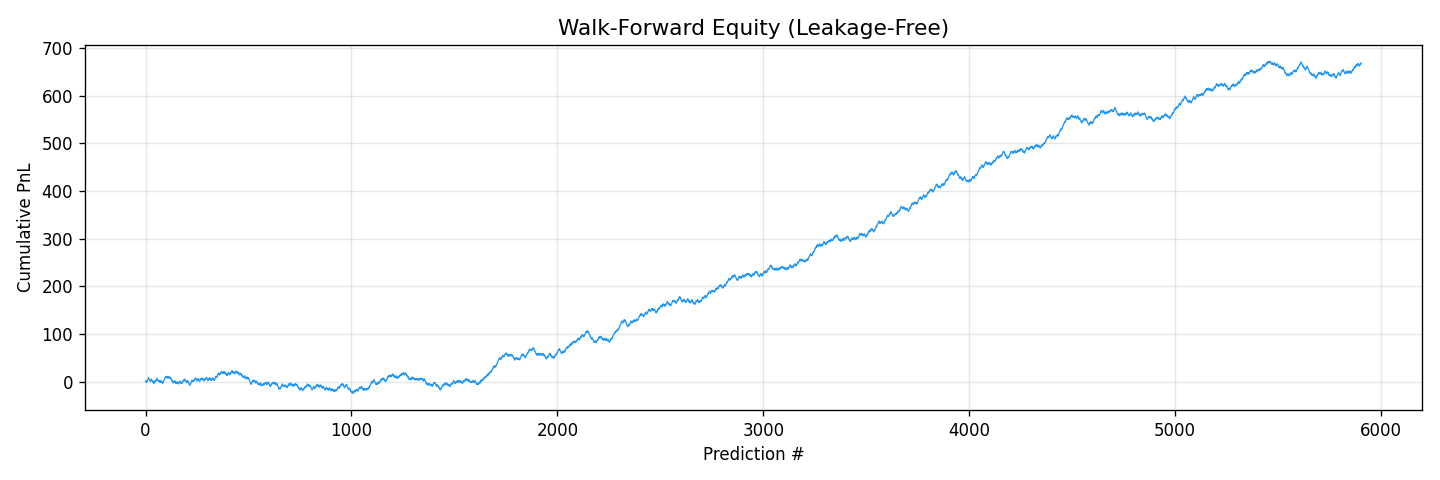
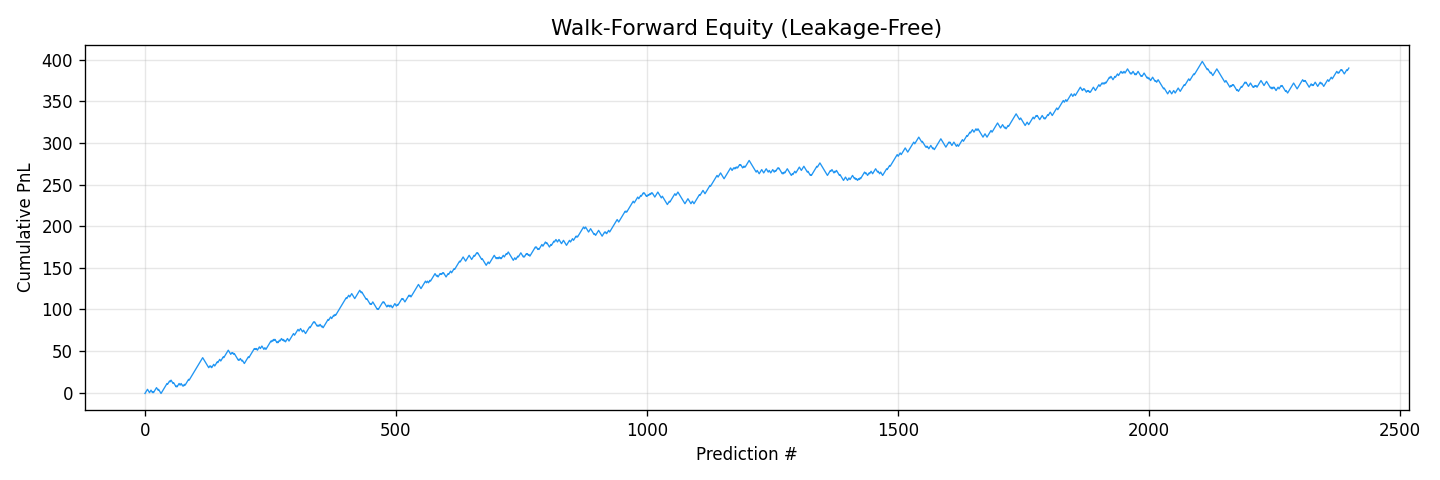
feat: Accuracy Audit Phase 4 Ultimate Gemini Verification Layer

diff --git a/gemini_filter.py b/gemini_filter.py
@@ -1,0 +1,100 @@
+"""
+Layer 13: Gemini AI Master Trader Verification Layer.
+
+This module packages the raw technical context of a trade signal
+(Asset, Direction, EMA stack, ATR, Key Levels, ADX) and sends it
+to Google's Gemini LLM. The LLM acts as a Master Trader and provides
+a final APPROVED or REJECTED verdict based on the technical structure,
+preventing the bot from taking trades that look mathematically fine
+but structurally poor.
+"""
+
+import os
+import logging
+import json
+import google.generativeai as genai
+from config import GEMINI_API_KEY
+
+log = logging.getLogger("gemini_filter")
+
+# Initialize Gemini if an API key is provided
+_gemini_enabled = False
+if GEMINI_API_KEY:
+    try:
+        genai.configure(api_key=GEMINI_API_KEY)
+        # Using gemini-2.5-flash which is fast and structurally sound.
+        _model = genai.GenerativeModel('gemini-2.5-flash')
+        _gemini_enabled = True
+        log.info("Gemini API Verification Layer is ENABLED.")
+    except Exception as e:
+        log.warning("Failed to initialize Gemini API: %s", e)
+else:
+    log.warning("GEMINI_API_KEY not found in config. Layer 13 will be skipped.")
+
+def verify_signal(symbol: str, direction: str, current_price: float, 
+                  ema_20: float, ema_50: float, ema_100: float, ema_200: float,
+                  atr: float, adx: float, rsi: float, volume_imbalance: float, 
+                  regime: str) -> dict:
+    """
+    Sends the structural trade context to Gemini for final verification.
+    
+    Returns:
+        dict: {
+            "approved": bool,
+            "reason": str
+        }
+    """
+    if not _gemini_enabled:
+        return {"approved": True, "reason": "Gemini disabled (No API Key)"}
+    
+    prompt = f"""You are a Master Forex/Options Trader evaluating an automated algorithmic signal.
+    
+    The algorithm wants to place a trade with the following parameters:
+    - Asset: {symbol}
+    - Suggested Direction: {direction}
+    - Current Price: {current_price:.5f}
+    - Market Regime: {regime}
+    
+    Technical Context:
+    - EMA 20: {ema_20:.5f}
+    - EMA 50: {ema_50:.5f}
+    - EMA 100: {ema_100:.5f}
+    - EMA 200: {ema_200:.5f}
+    - ATR: {atr:.5f} (Volatility/Movement size)
+    - ADX: {adx:.2f} (Trend strength, >25 is strong)
+    - RSI: {rsi:.2f} (Momentum, >70 Overbought, <30 Oversold)
+    - Volume Imbalance: {volume_imbalance:.2f}
+    
+    Your task: Look at the exact position of the price vs the EMAs, and check the ADX/RSI conditions.
+    If the requested {direction} direction fundamentally contradicts the EMA stack structure, or if 
+    going {direction} here is foolish given the RSI/ADX, you must reject it.
+    If the setup looks structurally sound to a professional trader, approve it.
+    
+    You must output ONLY a JSON object in this exact format:
+    {{"verdict": "APPROVED", "reason": "Short explanation of why"}} or
+    {{"verdict": "REJECTED", "reason": "Short explanation of why"}}
+    """
+    
+    try:
+        response = _model.generate_content(prompt)
+        text = response.text.strip()
+        
+        # Clean up possible markdown wrappers from the LLM
+        if text.startswith("```json"):
+            text = text[7:]
+        if text.startswith("```"):
+            text = text[3:]
+        if text.endswith("```"):
+            text = text[:-3]
+            
+        parsed = json.loads(text.strip())
+        
+        if parsed.get("verdict", "").upper() == "APPROVED":
+            return {"approved": True, "reason": parsed.get("reason", "Gemini approved")}
+        else:
+            return {"approved": False, "reason": parsed.get("reason", "Gemini rejected structure")}
+            
+    except Exception as e:
+        log.warning("Gemini API call failed for %s: %s", symbol, e)
+        # Fail open if the API goes down so trading continues, but log it.
+        return {"approved": True, "reason": f"Gemini Error (Auto-Passed): {str(e)}"}

diff --git a/telegram_bot.py b/telegram_bot.py
@@ -53,6 +53,7 @@ from candle_patterns import pattern_confirms
 from news_filter import check_news_filter
 from adaptive_threshold import AdaptiveThreshold
 from stacking_model import StackingGatekeeper
+from gemini_filter import verify_signal
 import threading
 from stability import AccuracyTracker, ConfidenceCorrelationTracker
 from production_state import (
@@ -814,6 +815,45 @@ async def _auto_signal_job(app: Application):
                     max_signals=MAX_SIGNALS_PER_CYCLE,
                     min_score=MIN_SIGNAL_SCORE,
                 )
+
+            # =================================================================
+            # LAYER 13: Gemini AI Master Trader Verification
+            # =================================================================
+            if predictions:
+                gemini_filtered = {}
+                for sym, pred in predictions.items():
+                    try:
+                        data_mtf = fetch_multi_timeframe(sym, 50)
+                        m5_df = data_mtf.get('M5')
+                        if m5_df is not None and not m5_df.empty:
+                            m5_feats = compute_features(m5_df)
+                            last_row = m5_feats.iloc[-1]
+                            price = last_row.get("close", 0)
+                            e20 = last_row.get("ema_20", 0)
+                            e50 = last_row.get("ema_50", 0)
+                            e100 = last_row.get("ema_100", 0)
+                            e200 = last_row.get("ema_200", 0)
+                            atr = last_row.get("atr_14", 0)
+                            adx = last_row.get("adx", 0)
+                            rsi = last_row.get("rsi_14", 50)
+                            vol_imb = last_row.get("volume_imbalance", 0)
+                            
+                            v = verify_signal(
+                                sym, pred["suggested_direction"], price,
+                                e20, e50, e100, e200, atr, adx, rsi, vol_imb, pred.get("market_regime", "Unknown")
+                            )
+                            if v["approved"]:
+                                gemini_filtered[sym] = pred
+                                log.info("Gemini APPROVED %s: %s", sym, v["reason"])
+                            else:
+                                filtered_out[sym] = f"Gemini Veto: {v['reason']}"
+                                log.info("Gemini REJECTED %s: %s", sym, v["reason"])
+                        else:
+                            gemini_filtered[sym] = pred
+                    except Exception as e:
+                        log.warning("Gemini integration error on %s: %s", sym, e)
+                        gemini_filtered[sym] = pred  # Fail-open
+                predictions = gemini_filtered
 
             # Send ONE combined message per subscriber (respecting alert mode)
             # Track which symbols were actually sent per subscriber

diff --git a/backtest.py b/backtest.py
@@ -215,7 +215,7 @@ def _generate_oof_predictions(X_tr, y_tr, spw, seeds, sample_weight=None,
 #  Walk-Forward Engine
 # =============================================================================
 
-def run_walk_forward(symbol, train_ratio=0.6, chunk_ratio=0.1, rolling_window=0):
+def run_walk_forward(symbol, train_ratio=0.6, chunk_ratio=0.1, rolling_window=0, bars=0):
     mtf = load_multi_tf(symbol)
     df = mtf.get("M5")
     if df is None:
@@ -237,6 +237,12 @@ def run_walk_forward(symbol, train_ratio=0.6, chunk_ratio=0.1, rolling_window=0)
         df_eval["tb_weight"] = 1.0  # No TB weights for smoothed target
 
     df_eval = df_eval.dropna(subset=["target"]).reset_index(drop=True)
+    
+    # Phase 4 Update: Slice the last N bars if requested (for faster testing of recent conditions)
+    if bars > 0 and bars < len(df_eval):
+        df_eval = df_eval.iloc[-bars:].reset_index(drop=True)
+        print(f"\n>> Sliced backtest dataset to the most recent {bars} bars.")
+        
     df_eval["target"] = df_eval["target"].astype(int)
 
     # V3: Compute time weights (exponential recency)
@@ -805,9 +811,11 @@ def main():
     parser.add_argument("--rolling-window", type=int, default=0,
                         help="Rolling window size in bars. 0=expanding (default). "
                              "3500≈12 months of M5 data.")
+    parser.add_argument("--bars", type=int, default=0, 
+                        help="Limit backtest to the last N bars (0=all).")
     args = parser.parse_args()
     result = run_walk_forward(args.symbol, args.train_ratio, args.chunk_ratio,
-                              args.rolling_window)
+                              args.rolling_window, args.bars)
     print_report(result)
 
 

diff --git a/config.py b/config.py
@@ -40,6 +40,9 @@ MT5_PASSWORD = os.getenv("MT5_PASSWORD", "")
 MT5_SERVER = os.getenv("MT5_SERVER", "")
 ADMIN_CHAT_ID = os.getenv("ADMIN_CHAT_ID", "")
 
+# --- Gemini API --------------------------------------------------------------
+GEMINI_API_KEY = os.getenv("GEMINI_API_KEY", "")
+
 # --- Data Settings -----------------------------------------------------------
 DEFAULT_SYMBOL = "EURUSD"
 CANDLES_TO_FETCH = 50000  # v8: expanded from 15K for better generalization
